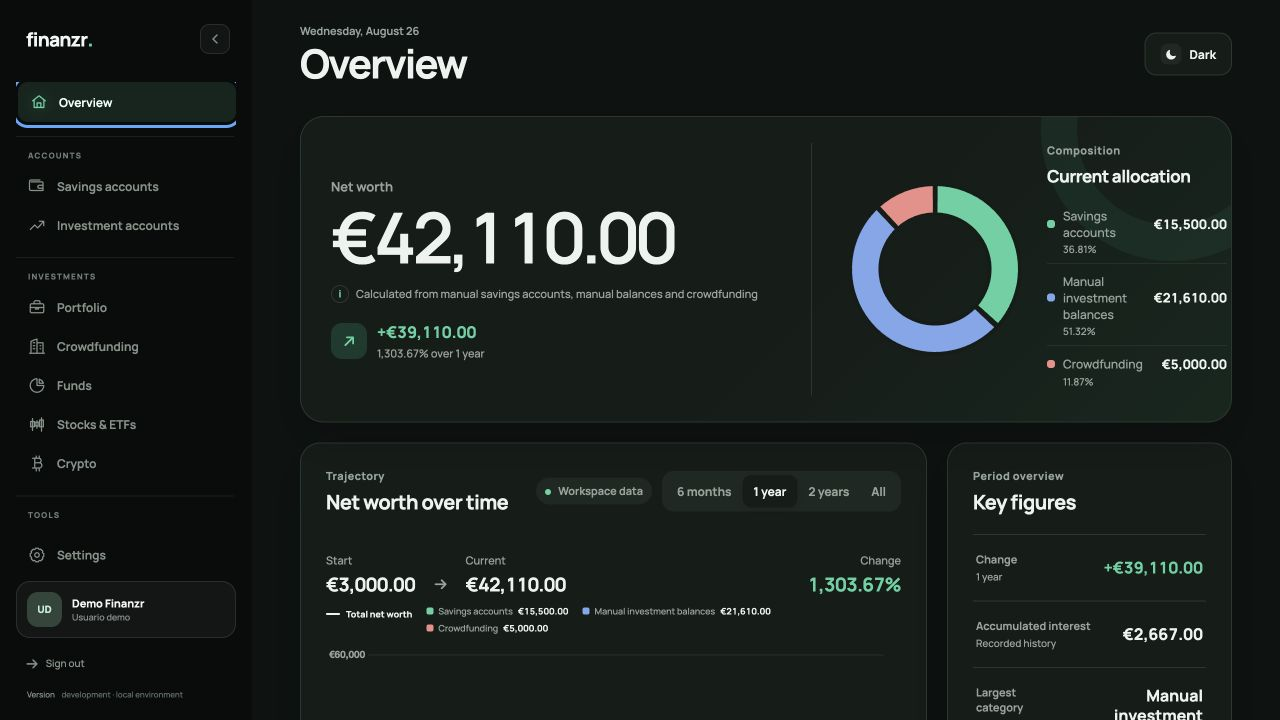
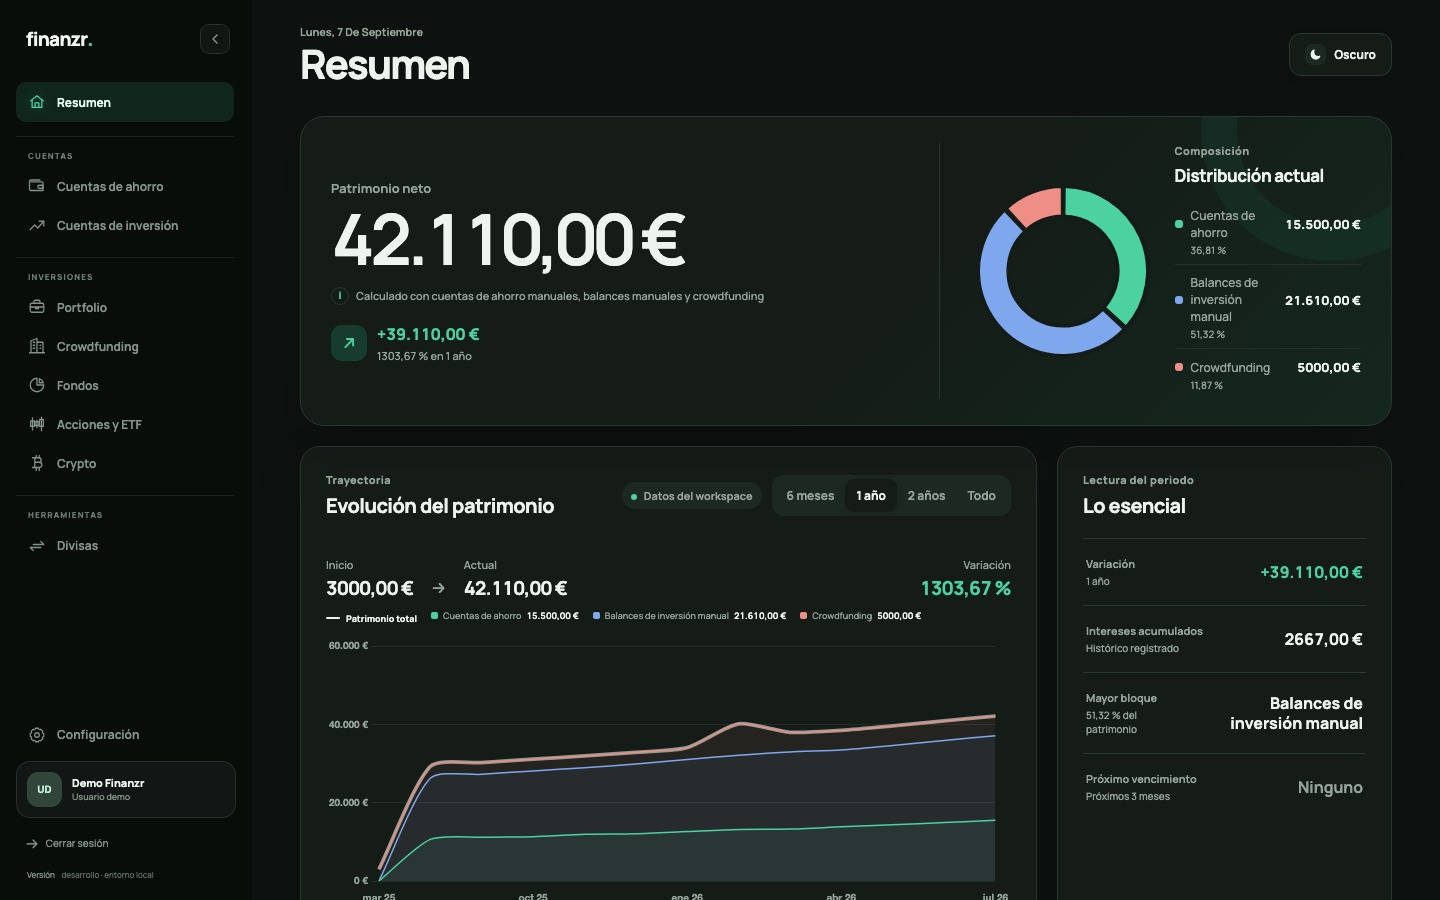
Update screenshots

diff --git a/README.md b/README.md
@@ -1,6 +1,6 @@
 <div align="center">
 
-<img src="docs/assets/finanzr-hero.webp" alt="Finanzr demo showing Overview, Portfolio, Funds, Stocks and Crypto" width="100%">
+<img src="docs/assets/screenshots/demo-overview.jpg" alt="Finanzr overview showing synthetic net worth, allocation and historical trajectory" width="100%">
 
 <h1>Finanzr</h1>
 
@@ -42,34 +42,29 @@ be imported into fund, stock and crypto accounts.
 
 ## See it in action
 
-Every screen below was captured in English from a demo workspace created with
-`seed_demo_data`. All names, holdings and values are synthetic.
+The overview above and the four focused screens below were captured in Spanish,
+the product default, from a workspace created with `seed_demo_data`. All names,
+holdings and values are synthetic.
 
 <table>
   <tr>
     <td width="50%" align="center">
-      <img src="docs/assets/screenshots/demo-overview.jpg" alt="Finanzr Overview with demo net worth and allocation"><br>
-      <sub><strong>Overview</strong> · Net worth, trajectory and allocation</sub>
-    </td>
-    <td width="50%" align="center">
       <img src="docs/assets/screenshots/demo-portfolio.jpg" alt="Finanzr Portfolio with demo composition and exposures"><br>
-      <sub><strong>Portfolio</strong> · Composition and concentration</sub>
+      <sub><strong>Portfolio</strong> · One consolidated view, grouped by asset class</sub>
+    </td>
+    <td width="50%" align="center">
+      <img src="docs/assets/screenshots/demo-funds.jpg" alt="Finanzr fund portfolio performance chart and positions"><br>
+      <sub><strong>Funds</strong> · Value, contributed capital and position-level returns</sub>
     </td>
   </tr>
   <tr>
     <td width="50%" align="center">
-      <img src="docs/assets/screenshots/demo-funds.jpg" alt="Finanzr Funds with demo positions and KPIs"><br>
-      <sub><strong>Funds</strong> · Positions, prices and performance</sub>
+      <img src="docs/assets/screenshots/demo-stocks.jpg" alt="Finanzr stock candlestick chart with average price, trades and portfolio movements"><br>
+      <sub><strong>Stocks & ETFs</strong> · Adaptive candles, trade markers and movements</sub>
     </td>
     <td width="50%" align="center">
-      <img src="docs/assets/screenshots/demo-stocks.jpg" alt="Finanzr Stocks and ETFs with demo positions and KPIs"><br>
-      <sub><strong>Stocks & ETFs</strong> · P&L and market value</sub>
-    </td>
-  </tr>
-  <tr>
-    <td colspan="2" align="center">
-      <img src="docs/assets/screenshots/demo-crypto.jpg" alt="Finanzr Crypto with demo assets and performance" width="70%"><br>
-      <sub><strong>Crypto</strong> · Accounts, positions and performance</sub>
+      <img src="docs/assets/screenshots/demo-crypto.jpg" alt="Finanzr crypto candlestick chart with automatic interval selection and synthetic transactions"><br>
+      <sub><strong>Crypto</strong> · Automatic intervals, price history and transactions</sub>
     </td>
   </tr>
 </table>

diff --git a/docs/licensing.md b/docs/licensing.md
@@ -39,13 +39,9 @@ installed wheels or sdist metadata during release preparation.
 - The frontend uses a text-based mark and CSS styling created in this project;
   no unprovenanced raster logo is distributed.
 - The files in `docs/assets/screenshots/` are real application captures from an
-  isolated English-language workspace created with `seed_demo_data` on
-  2026-08-26. Every displayed identity, holding and value is synthetic.
-- `docs/assets/finanzr-hero.webp` was composed specifically for this repository
-  from those five captures with OpenAI's image-generation tooling on
-  2026-08-26. It contains no operational data. To the extent that copyright
-  applies to the generated output, it is distributed as project artwork under
-  the repository license.
+  isolated Spanish-language workspace created with `seed_demo_data` on
+  2026-09-07. Every displayed identity, holding and value is synthetic. The
+  overview capture is also used as the README header image.
 - The bundled HTML entry point references Chart.js, chartjs-chart-financial and
   Google Fonts from public CDNs. These are external runtime dependencies, not a
   grant to mirror or redistribute them. Verify their upstream licenses,
